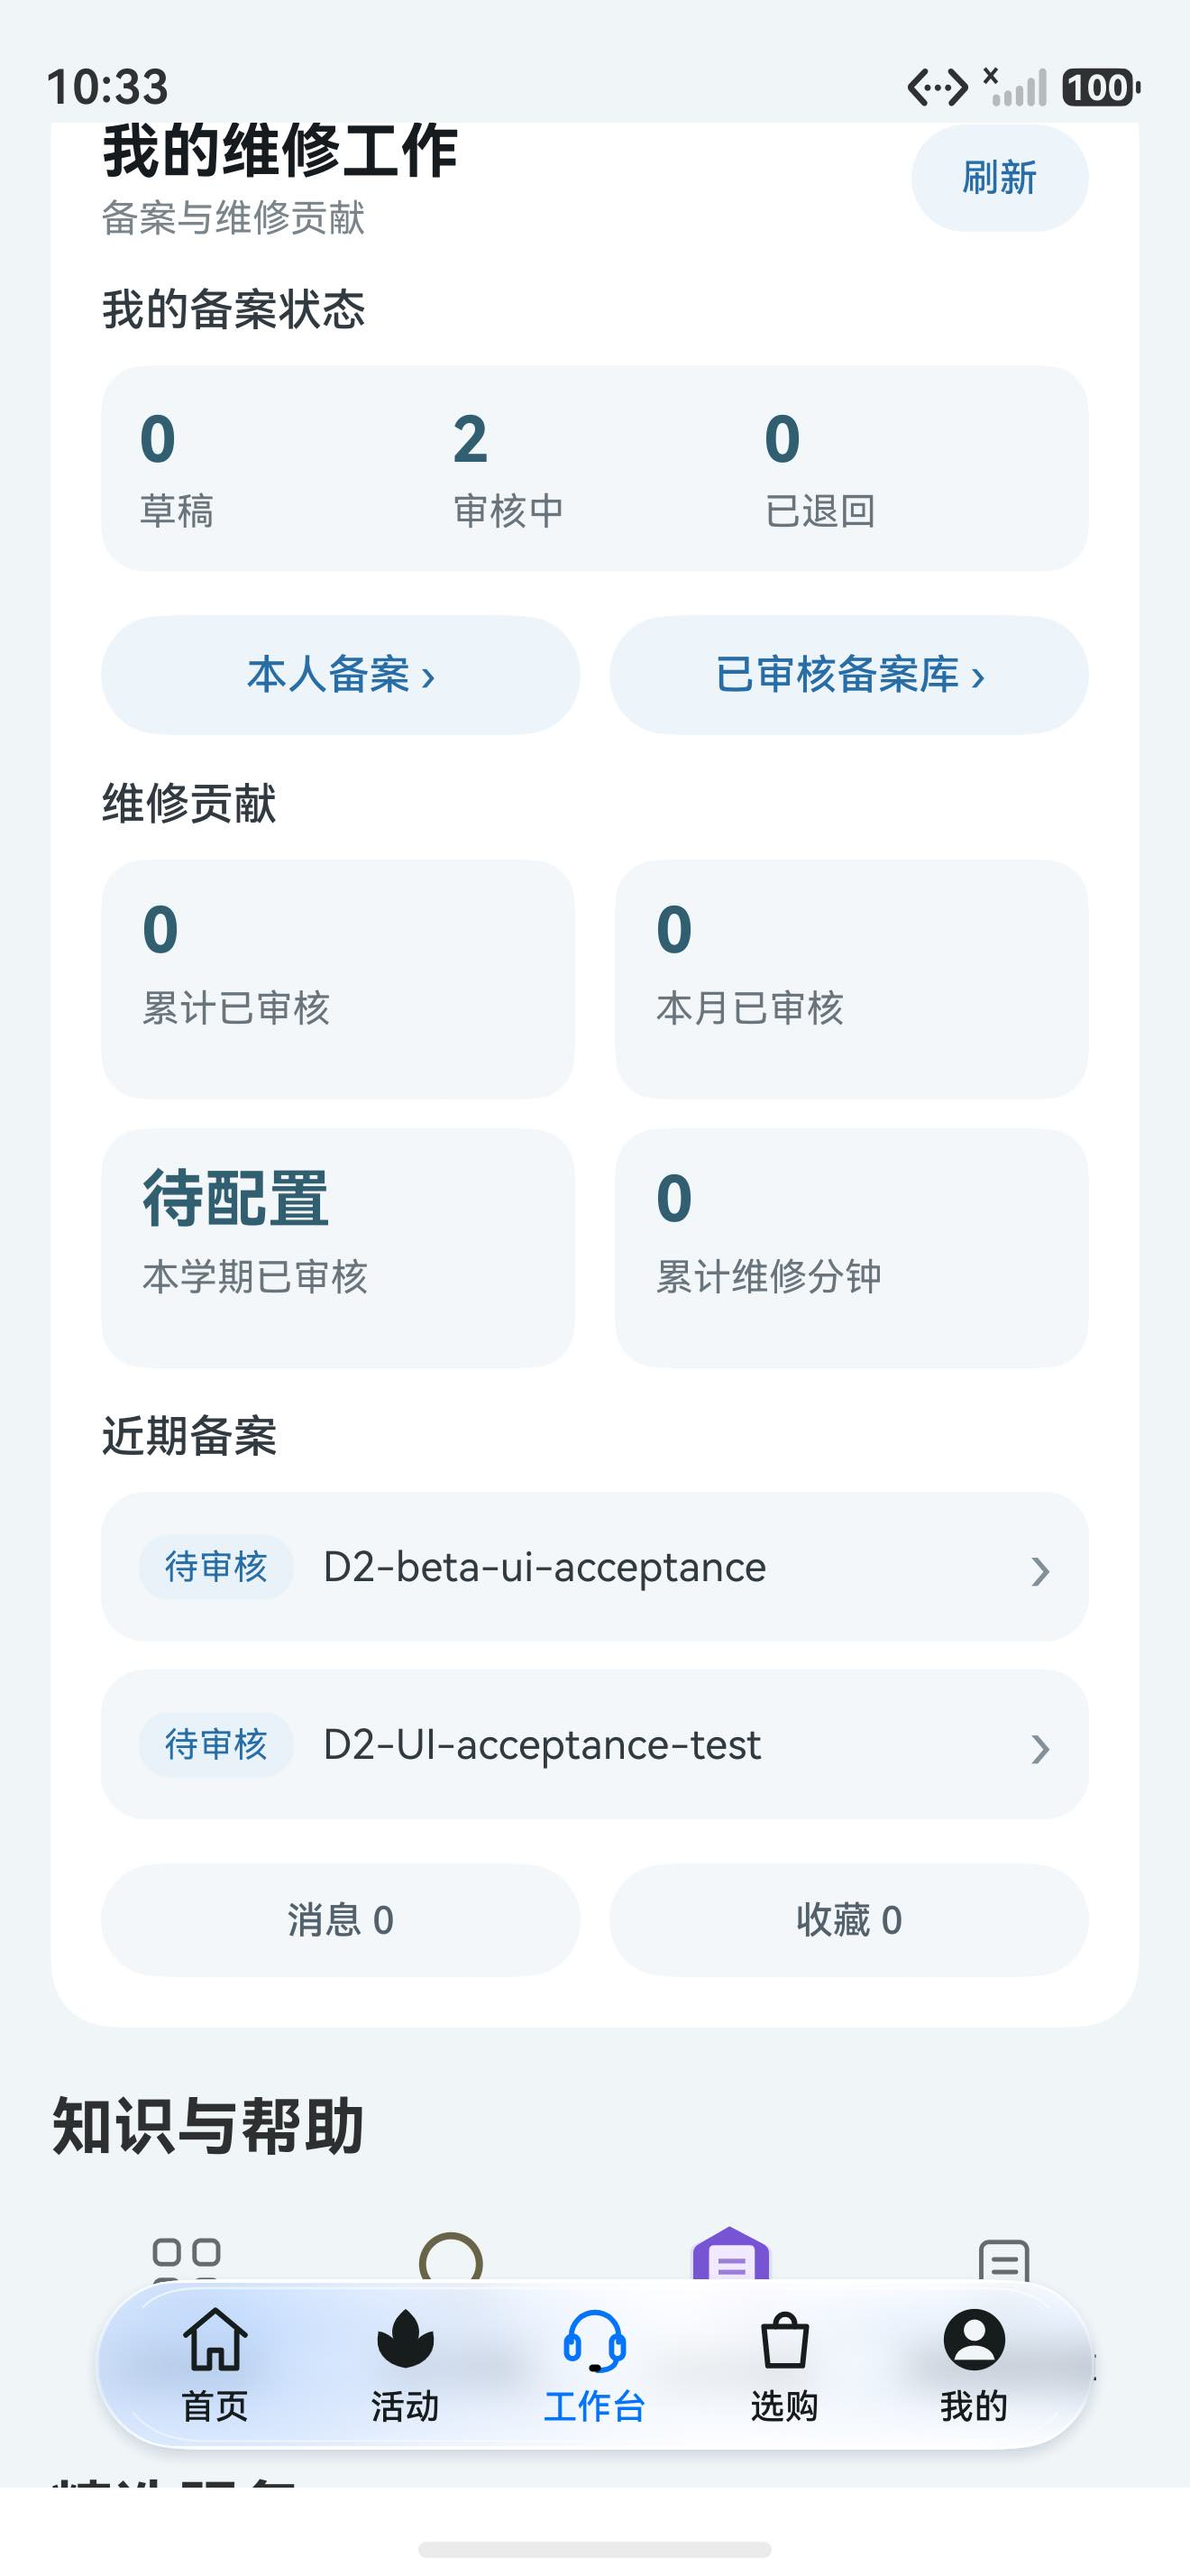
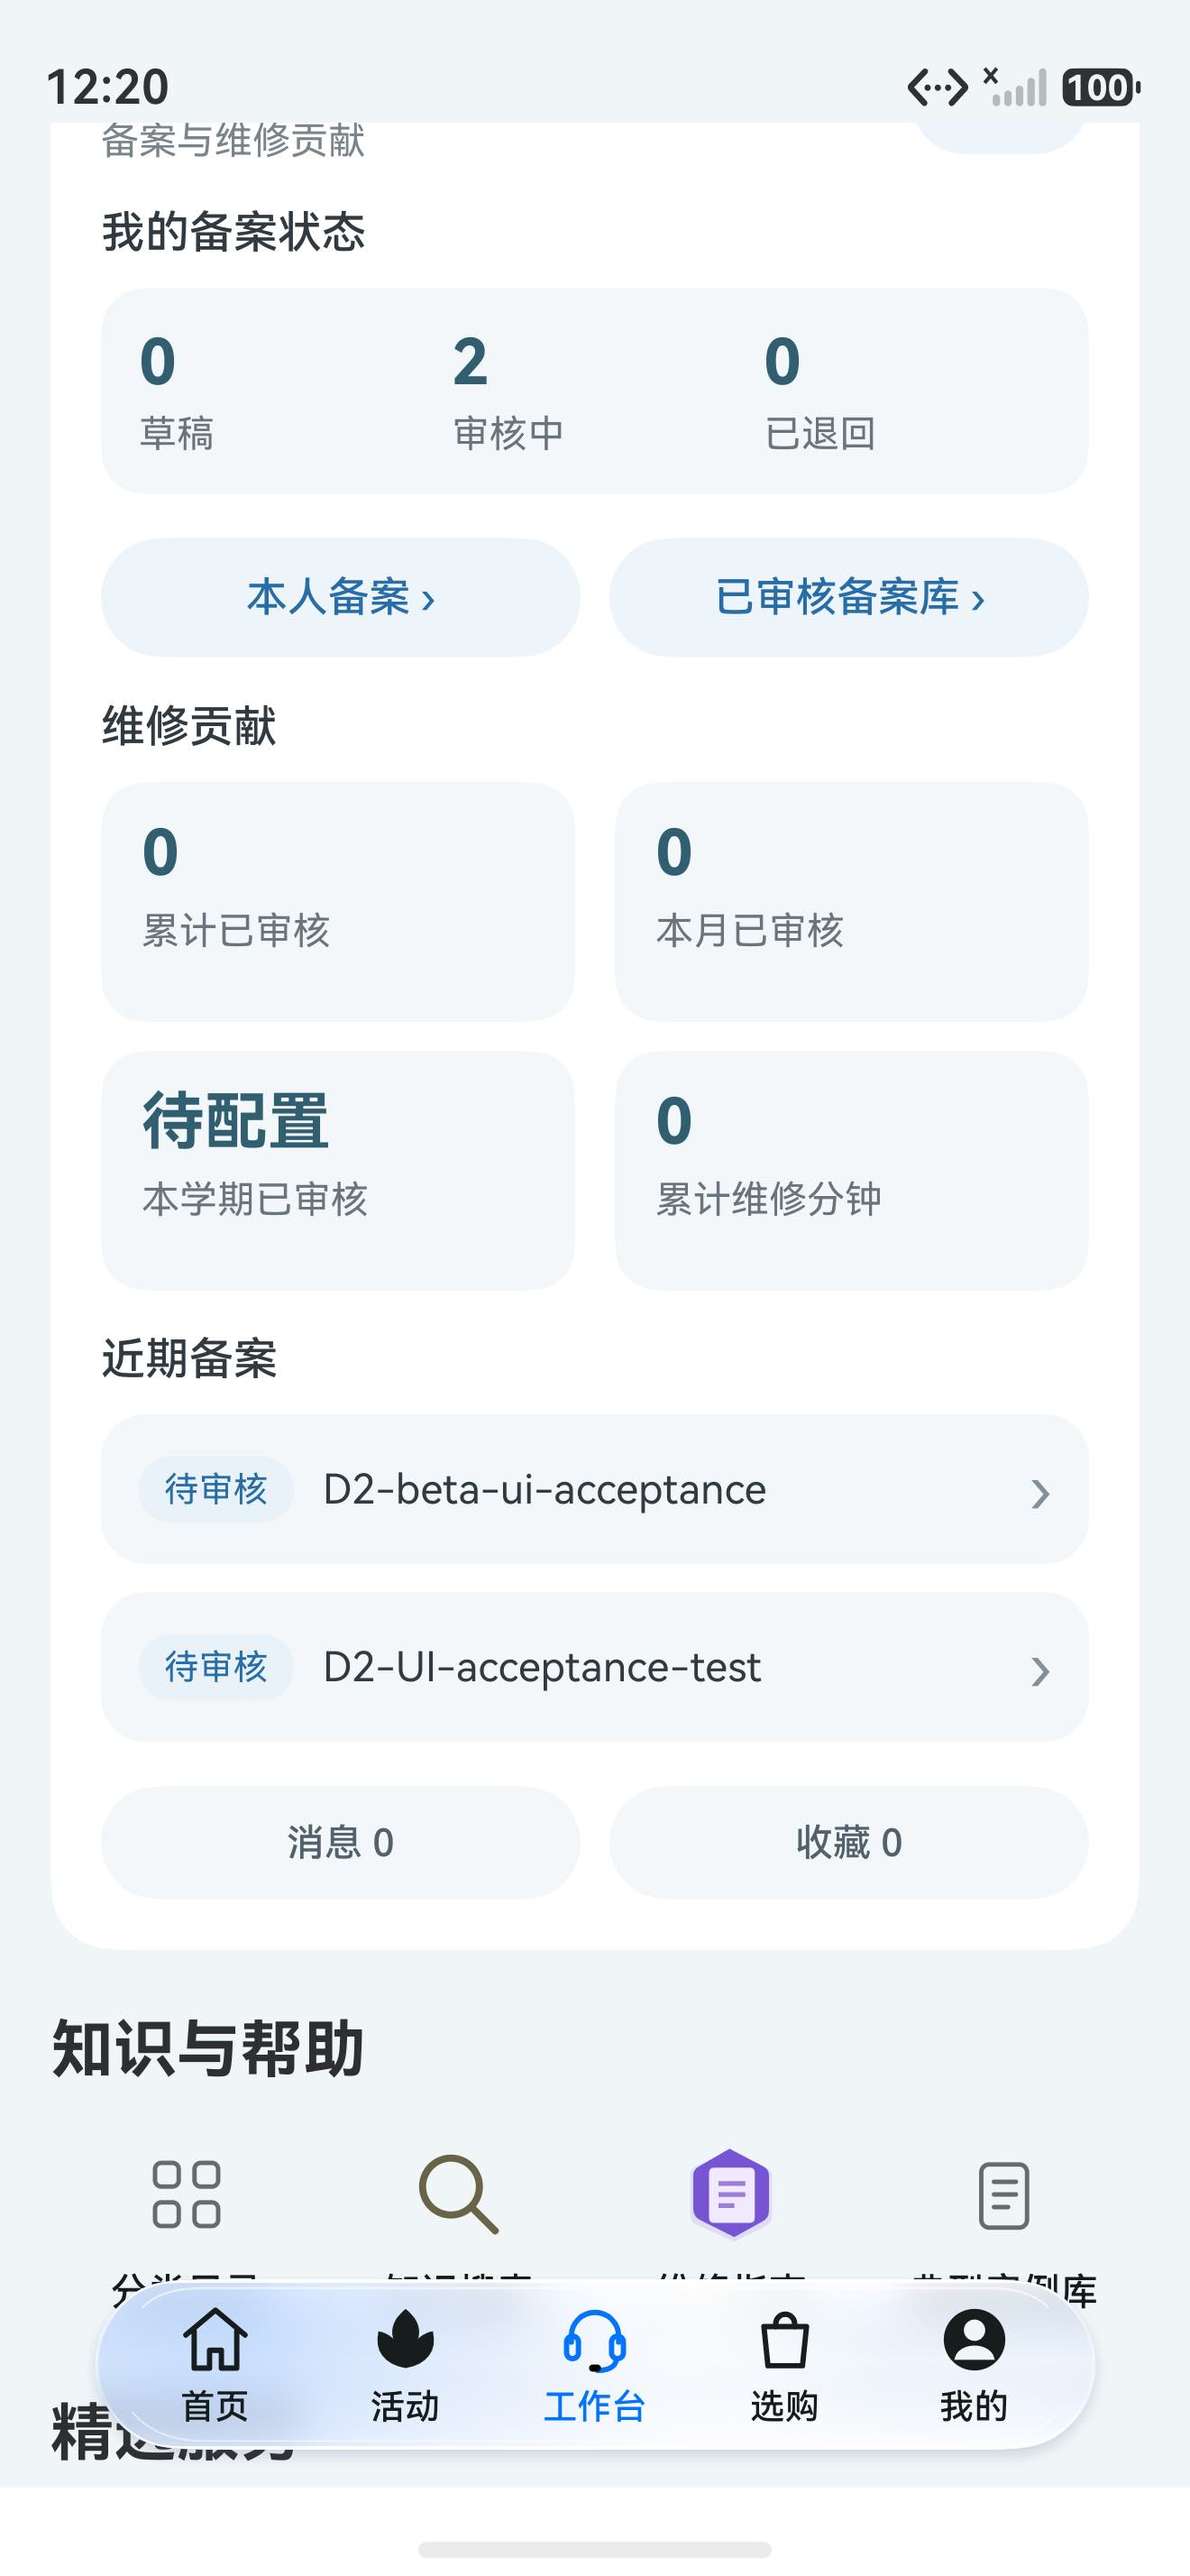
fix(workbench): 完善管理员权限状态与最终模拟器证据

diff --git a/docs/verification/frontend-polish-20261116/E6-staff-workbench/README.md b/docs/verification/frontend-polish-20261116/E6-staff-workbench/README.md
@@ -7,6 +7,9 @@
 | 工作台首屏、常用工作 | [我的华为·服务与报修入口](../../../reference/my-huawei/service-my-products-repair-entry.jpg)、[E5 改动前](../../frontend-polish-20261110/E5-staff-repair/workbench-before.jpeg) | [首屏](staff-top.jpeg) |
 | 工作摘要、近期备案 | 同上；按电脑医院员工业务调整内容 | [中段](staff-middle.jpeg)、[下段](staff-bottom.jpeg) |
 | 工作摘要请求失败 | 同上；工作台内就地反馈 | [错误与重试](summary-error.jpeg) |
+| 工作摘要重试恢复 | 同上 | [恢复后](summary-recovered.jpeg) |
+| 本人维修备案入口 | [我的华为·服务与报修入口](../../../reference/my-huawei/service-my-products-repair-entry.jpg) | [本人备案列表](record-entry.jpeg) |
+| 管理员工作台 | 同上；按管理员权限扩展入口 | [调整前](admin-before.jpeg)、[调整后](admin-final.jpeg) |
 | 游客服务页 | [我的华为·服务与报修入口](../../../reference/my-huawei/service-my-products-repair-entry.jpg) | [游客页](service-guest.jpeg) |
 | 维修指南错误页 | [我的华为·服务与诊断](../../../reference/my-huawei/service-diagnostics-help.jpg) | [错误页](guide-error.jpeg) |
 
@@ -14,13 +17,13 @@
 
 ## 改动
 
-- `ServicePage.ets`：工作人员常用工作前置。普通工作人员的“本人维修备案”直达本人列表，可继续新建草稿；入口仍按服务端返回的权限生成。典型案例库保留在知识与帮助区。
-- `WorkbenchSummary.ets`：读取 `/api/v1/member/dashboard`，展示真实队列、维修贡献和近期备案。统计按双列排列；学期数据未配置时显示“待配置”。请求刷新保留旧内容，迟到响应不覆盖新请求；失败在摘要区显示重试。
+- `ServicePage.ets`：工作人员常用工作前置。普通工作人员的“本人维修备案”直达本人列表，可继续新建草稿；入口仍按服务端返回的权限生成。管理员的六个入口组成三行，典型案例库可直达；普通工作人员仍可从知识与帮助区进入案例库。
+- `WorkbenchSummary.ets`：读取 `/api/v1/member/dashboard`，展示真实队列、维修贡献和近期备案。统计按双列排列；学期数据未配置时显示“待配置”。请求刷新保留旧内容，迟到响应不覆盖新请求；网络失败在摘要区显示重试。无成员档案的管理员显示对应说明。
 - 游客服务入口及客户原有流程保持可用。
 
 ## 实际验证
 
-环境：Pura 90 模拟器，1320 × 2856；本机课设后端 `http://127.0.0.1:13080`，独立实验库 `pchospital_exp_forum_ui_20261103`；员工账号 `100002`。本模块没有修改后端或数据库结构。
+环境：Pura 90 模拟器，1320 × 2856；本机课设后端 `http://127.0.0.1:13080`，独立实验库 `pchospital_exp_forum_ui_20261103`；员工账号 `100002`、管理员账号 `100003`。基线已合入 `main 9d75b04`。本模块没有修改后端或数据库结构。
 
 | 操作 | 结果 |
 | --- | --- |
@@ -29,11 +32,11 @@
 | 真实工作摘要 | `/api/v1/member/dashboard` 显示草稿 0、审核中 2、已退回 0；累计已审核和本月已审核为 0，本学期显示“待配置”；近期有 2 条审核中备案 |
 | 备案入口与返回 | “本人维修备案”进入本人备案列表，看到 2 条记录和“新建备案”；“已审核备案库”进入空态“当前范围暂无维修备案”；近期备案可打开真实详情，返回工作台 |
 | 报修与案例入口 | “报修工作台”进入真实待处理报修列表；典型案例入口进入案例库；均可返回工作台 |
-| 摘要刷新和失败 | 服务可用时刷新恢复实际统计；停止本机后端后摘要显示“工作摘要加载失败，请检查连接”和“重试”，见[错误截图](summary-error.jpeg) |
+| 摘要刷新、失败与恢复 | 服务可用时刷新实际统计；停止本机后端后摘要显示“工作摘要加载失败，请检查连接”和“重试”，见[错误截图](summary-error.jpeg)；重新启动后端并点击“重试”，恢复 0/2/0 及原有入口，见[恢复截图](summary-recovered.jpeg) |
 | 游客服务与维修指南 | 游客四个服务卡片保持原顺序；指南请求失败时显示页内错误及重试，左上返回服务页；[游客页](service-guest.jpeg)、[指南错误页](guide-error.jpeg) |
+| 管理员权限组合 | `100003` 显示备案审核、成员活动、案例库和管理入口；案例库为空态“暂无案例”，管理入口进入活动管理。该账号无成员档案时工作摘要显示“当前账号没有成员档案，维修摘要不可用”；[前后对照](admin-final.jpeg) |
 
 ## 本轮未覆盖状态
 
-- 重新启动后端后点击摘要“重试”的恢复过程，合入最新上游后复查。
-- 管理员权限组合、近期备案为空以及 dashboard 分区降级需要对应数据状态；本轮实验库没有这些状态。
+- 近期备案为空以及 dashboard 分区降级需要对应数据状态；本轮实验库没有这些状态。
 - 实体手机安装和手势检查。
